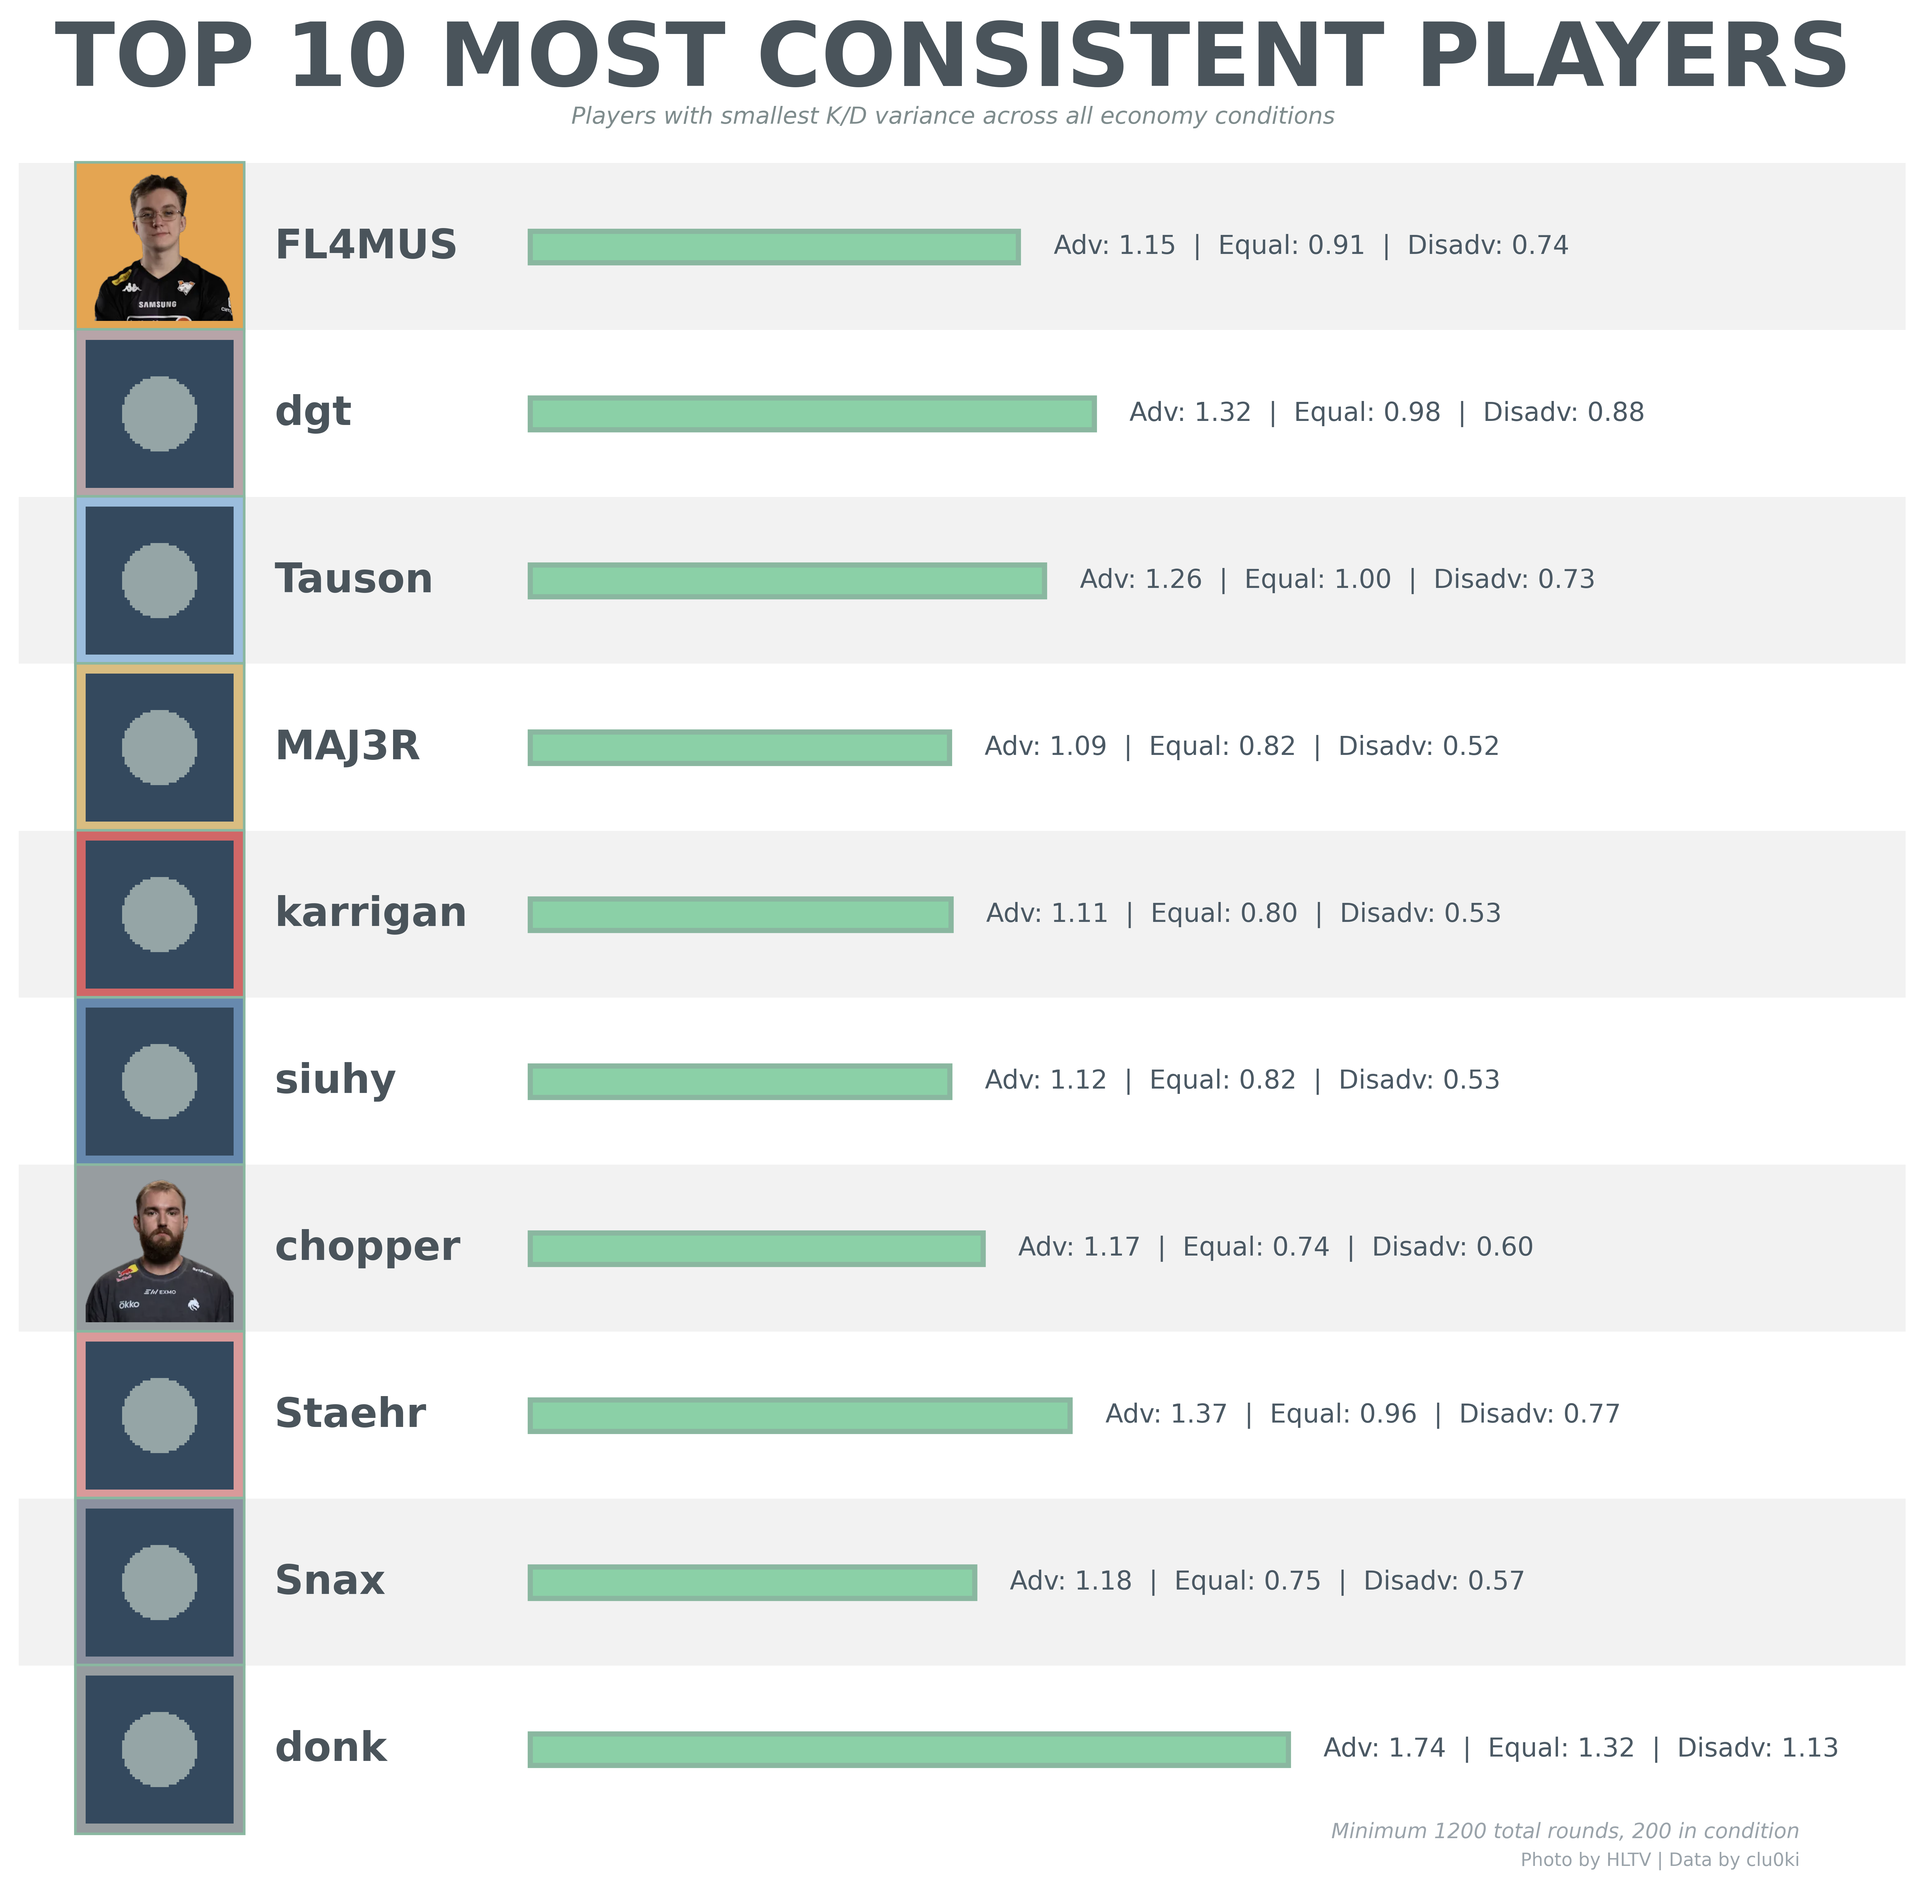
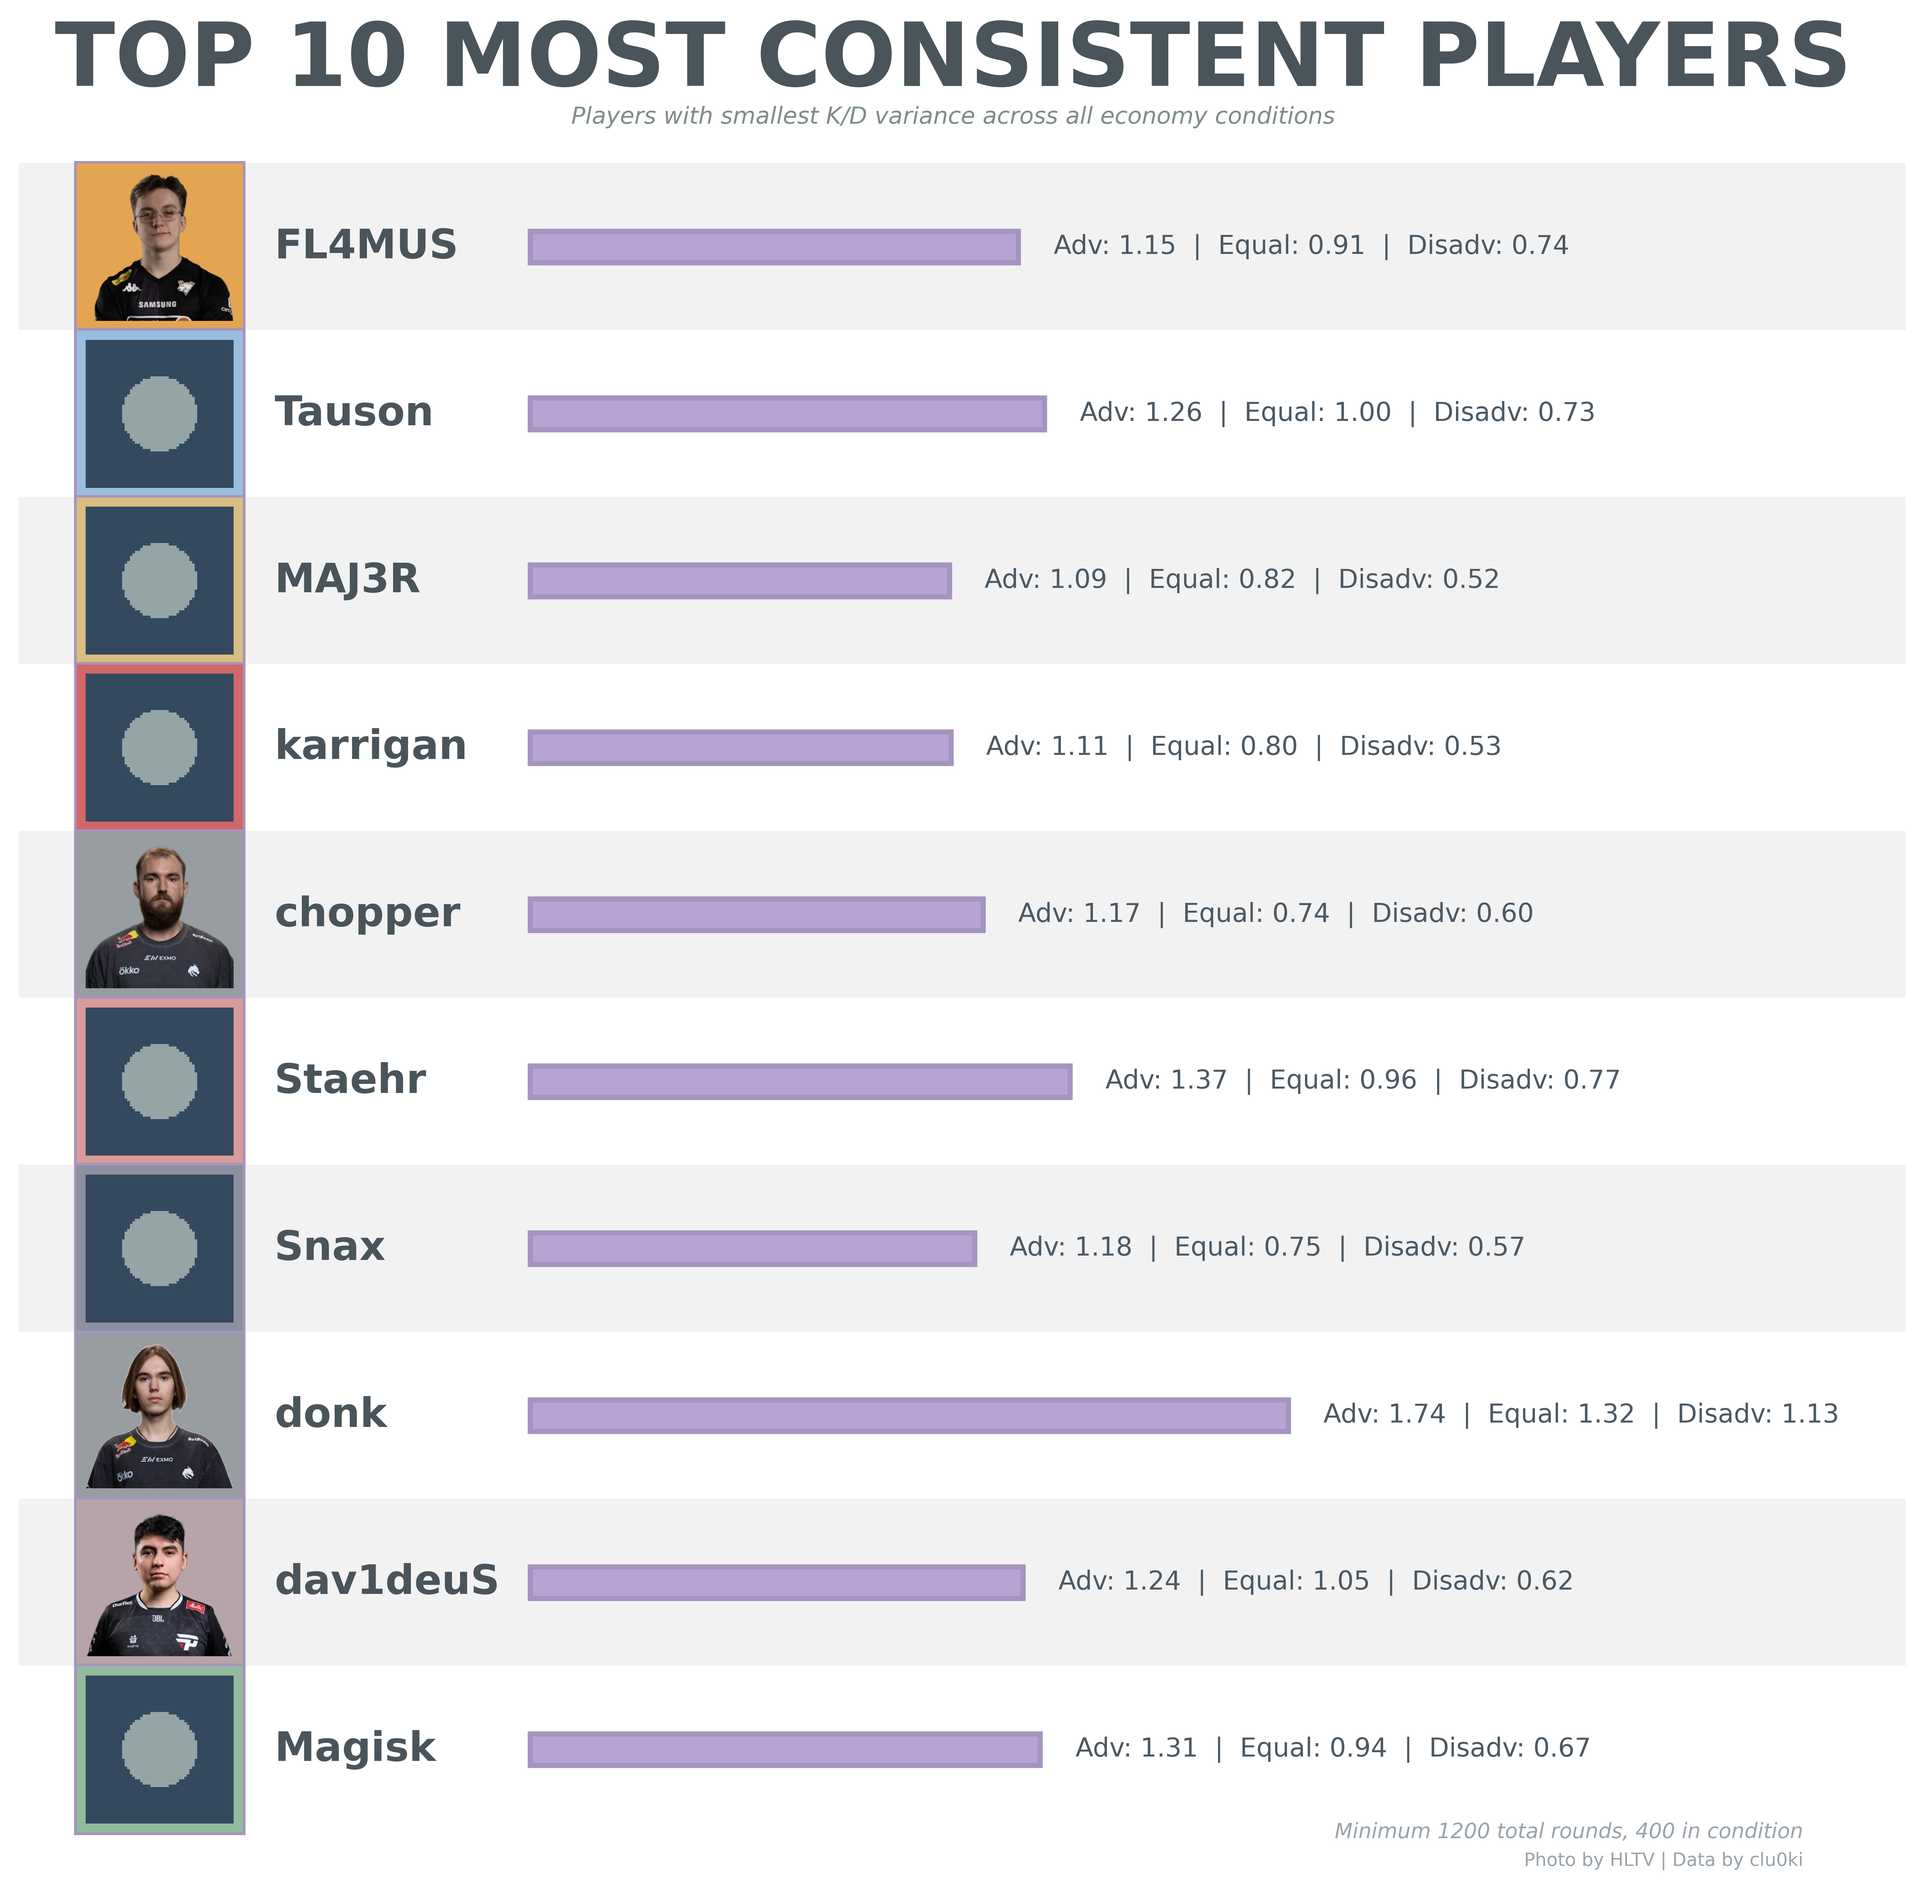
ud

diff --git a/econ_adv.py/econ_adv_viz.py b/econ_adv.py/econ_adv_viz.py
@@ -13,7 +13,7 @@ output_equal = "weapon_adv_best_equal.png"
 output_disadvantage = "weapon_adv_best_disadvantage.png"
 output_consistent = "weapon_adv_most_consistent.png"
 MIN_ROUNDS = 1200
-MIN_CONDITION_ROUNDS = 200  # Minimum rounds in the specific condition being analyzed
+MIN_CONDITION_ROUNDS = 400  # Minimum rounds in the specific condition being analyzed
 
 # ===== TEAM COLORS =====
 TEAM_COLORS = {
@@ -168,9 +168,17 @@ TITLE_X = 53
 TITLE_Y = 98
 SUBTITLE_Y = 95
 
-# Colors - all green for positive performance
-GREEN_BAR = "#8bd0a7"
-GREEN_BORDER = '#8ab7a0'
+# ===== COLORS BY CONDITION =====
+ADV_BAR = "#dda19e"
+ADV_BORDER = "#c58b7d"
+
+EQUAL_BAR = "#7bb3e0"
+EQUAL_BORDER = "#6a9dca"
+
+DISADV_BAR = "#8bd0a7"
+DISADV_BORDER = "#8ab7a0"
+CONSISTENT_BAR = "#b8a4d4"
+CONSISTENT_BORDER = "#a594bf"
 
 def create_placeholder_image(size=100):
     img = Image.new('RGB', (size, size), color='#34495e')
@@ -199,7 +207,7 @@ def load_player_image(player_name, photo_dir, size=50):
     
     return OffsetImage(img, zoom=zoom)
 
-def create_weapon_adv_chart(data, title, subtitle, output_file, metric_col):
+def create_weapon_adv_chart(data, title, subtitle, output_file, metric_col, bar_color, border_color):
     """Create chart showing K/D performance in specific economy condition"""
     
     fig, ax = plt.subplots(figsize=(FIGURE_WIDTH_INCHES, FIGURE_HEIGHT_INCHES))
@@ -242,7 +250,7 @@ def create_weapon_adv_chart(data, title, subtitle, output_file, metric_col):
         imagebox = AnnotationBbox(img, (PHOTO_X, y_pos), 
                                  frameon=True, 
                                  box_alignment=(0.5, 0.5),
-                                 bboxprops=dict(edgecolor=GREEN_BORDER, 
+                                 bboxprops=dict(edgecolor=border_color, 
                                                linewidth=PHOTO_BORDER, 
                                                facecolor=team_color))
         ax.add_artist(imagebox)
@@ -256,7 +264,7 @@ def create_weapon_adv_chart(data, title, subtitle, output_file, metric_col):
         # Add bar (normalized to max K/D)
         bar_length = (primary_kd / max_kd) * (BAR_END_X - BAR_START_X)
         bar_rect = plt.Rectangle((BAR_START_X, y_pos - BAR_HEIGHT/2), bar_length, BAR_HEIGHT,
-                                 facecolor=GREEN_BAR, edgecolor=GREEN_BORDER, 
+                                 facecolor=bar_color, edgecolor=border_color, 
                                  linewidth=BAR_BORDER, transform=ax.transData)
         ax.add_patch(bar_rect)
         
@@ -280,13 +288,13 @@ def create_weapon_adv_chart(data, title, subtitle, output_file, metric_col):
            transform=ax.transData)
     
     # Add minimum rounds note
-    ax.text(101, 2, f'Minimum {MIN_ROUNDS} total rounds, {MIN_CONDITION_ROUNDS} in condition',
+    ax.text(101.2, 2, f'Minimum {MIN_ROUNDS} total rounds, {MIN_CONDITION_ROUNDS} in condition',
            ha='right', va='bottom',
            fontsize=8, style='italic', color='#9aa3aa',
            transform=ax.transData)
     
     # Add credits
-    ax.text(101, 0.5, 'Photo by HLTV | Data by clu0ki',
+    ax.text(101.2, 0.5, 'Photo by HLTV | Data by clu0ki',
            ha='right', va='bottom',
            fontsize=7, color='#9aa3aa',
            transform=ax.transData)
@@ -319,7 +327,7 @@ if len(df_filtered) < 10:
     print(f"[ERROR] Not enough players with {MIN_ROUNDS} rounds")
     exit(1)
 
-# ===== Chart 1: Best in Advantage =====
+# ===== Chart 1: Best in Advantage (BLUE) =====
 print("\nGenerating Chart 1: Best in Advantage...")
 df_adv = df_filtered[df_filtered["Adv_Rounds"] >= MIN_CONDITION_ROUNDS].copy()
 print(f"  Players with >={MIN_CONDITION_ROUNDS} advantage rounds: {len(df_adv)}")
@@ -331,12 +339,14 @@ if len(df_adv) >= 10:
         "TOP 10 K/D - ADVANTAGE $",
         "Players with highest K/D when their team has economy advantage (±$2000 threshold)",
         output_advantage,
-        "Adv_KD"
+        "Adv_KD",
+        ADV_BAR,
+        ADV_BORDER
     )
 else:
     print(f"  [SKIP] Not enough players for advantage chart")
 
-# ===== Chart 2: Best in Equal =====
+# ===== Chart 2: Best in Equal (YELLOW) =====
 print("\nGenerating Chart 2: Best in Equal...")
 df_eq = df_filtered[df_filtered["Equal_Rounds"] >= MIN_CONDITION_ROUNDS].copy()
 print(f"  Players with >={MIN_CONDITION_ROUNDS} equal rounds: {len(df_eq)}")
@@ -348,12 +358,14 @@ if len(df_eq) >= 10:
         "TOP 10 K/D - EQUAL $",
         "Players with highest K/D when economies are balanced (±$2000 threshold)",
         output_equal,
-        "Equal_KD"
+        "Equal_KD",
+        EQUAL_BAR,
+        EQUAL_BORDER
     )
 else:
     print(f"  [SKIP] Not enough players for equal chart")
 
-# ===== Chart 3: Best in Disadvantage =====
+# ===== Chart 3: Best in Disadvantage (GREEN) =====
 print("\nGenerating Chart 3: Best in Disadvantage...")
 df_disadv = df_filtered[df_filtered["Disadv_Rounds"] >= MIN_CONDITION_ROUNDS].copy()
 print(f"  Players with >={MIN_CONDITION_ROUNDS} disadvantage rounds: {len(df_disadv)}")
@@ -365,12 +377,14 @@ if len(df_disadv) >= 10:
         "TOP 10 K/D - DISADVANTAGE $",
         "Players with highest K/D when their team has economy disadvantage (±$2000 threshold)",
         output_disadvantage,
-        "Disadv_KD"
+        "Disadv_KD",
+        DISADV_BAR,
+        DISADV_BORDER
     )
 else:
     print(f"  [SKIP] Not enough players for disadvantage chart")
 
-# ===== Chart 4: Most Consistent =====
+# ===== Chart 4: Most Consistent (PURPLE) =====
 print("\nGenerating Chart 4: Most Consistent...")
 # Need significant rounds in ALL conditions
 df_consistent = df_filtered[
@@ -390,7 +404,9 @@ if len(df_consistent) >= 10:
         "TOP 10 MOST CONSISTENT PLAYERS",
         "Players with smallest K/D variance across all economy conditions",
         output_consistent,
-        "Overall_KD"
+        "Overall_KD",
+        CONSISTENT_BAR,
+        CONSISTENT_BORDER
     )
 else:
     print(f"  [SKIP] Not enough players for consistency chart")
